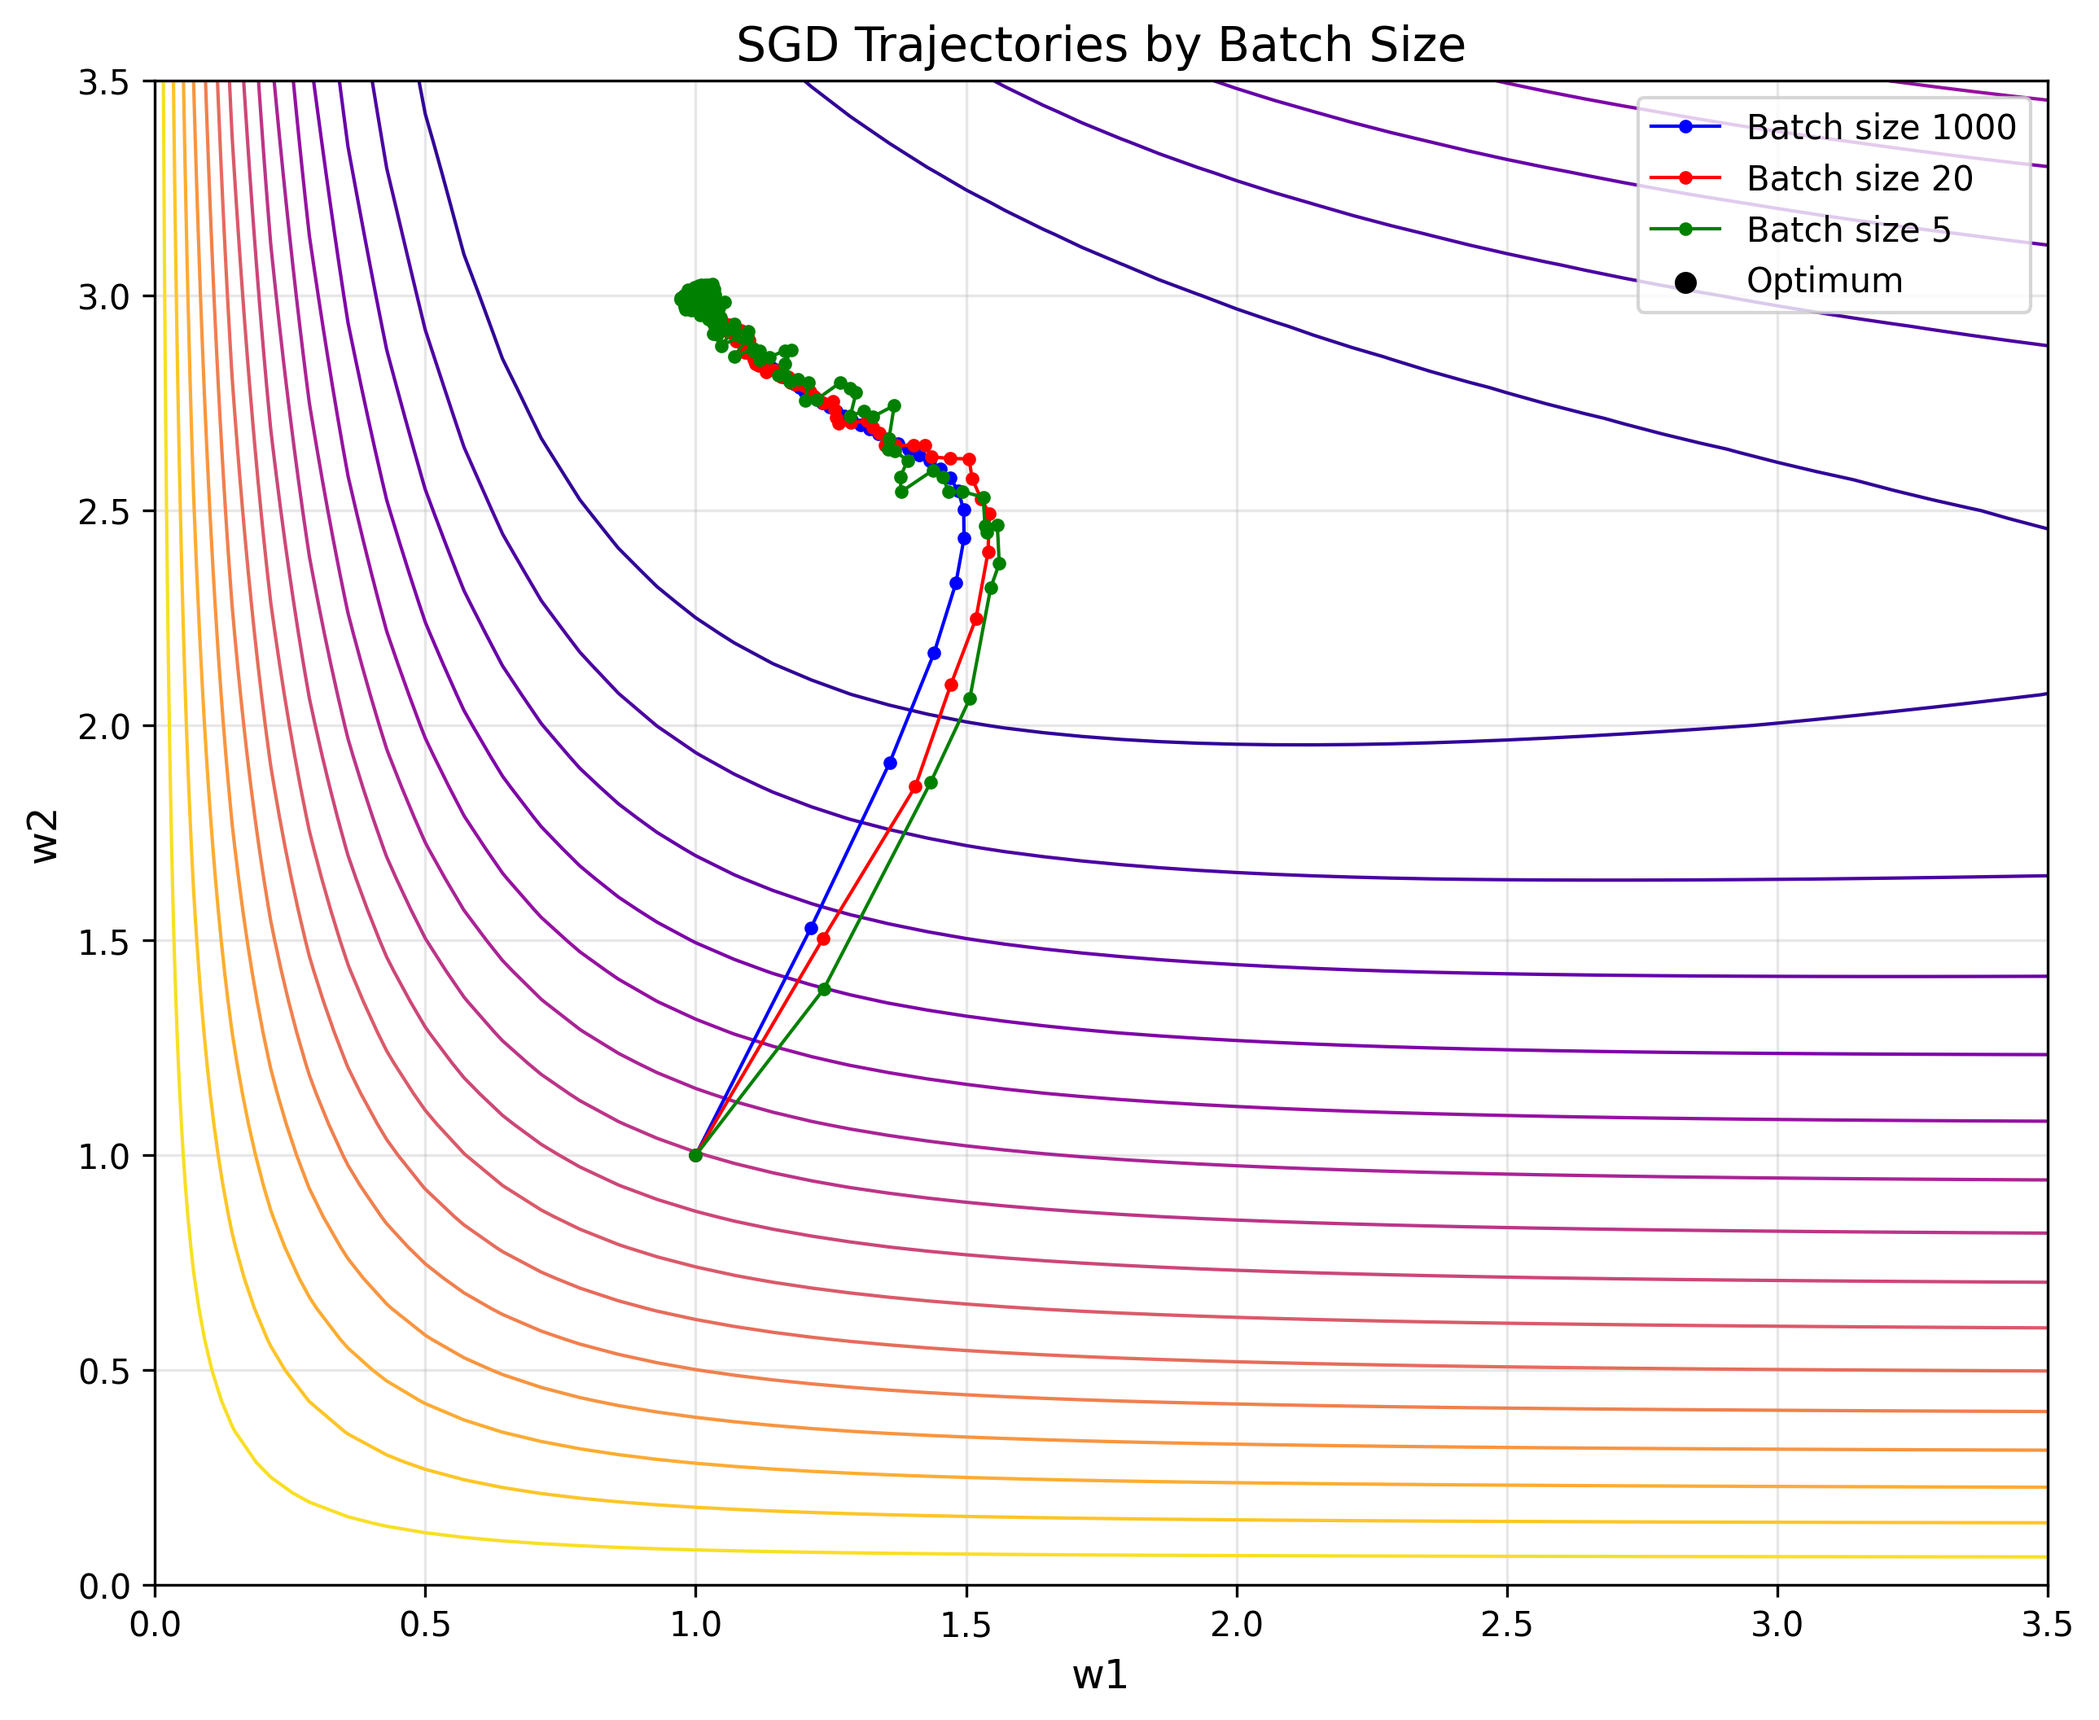
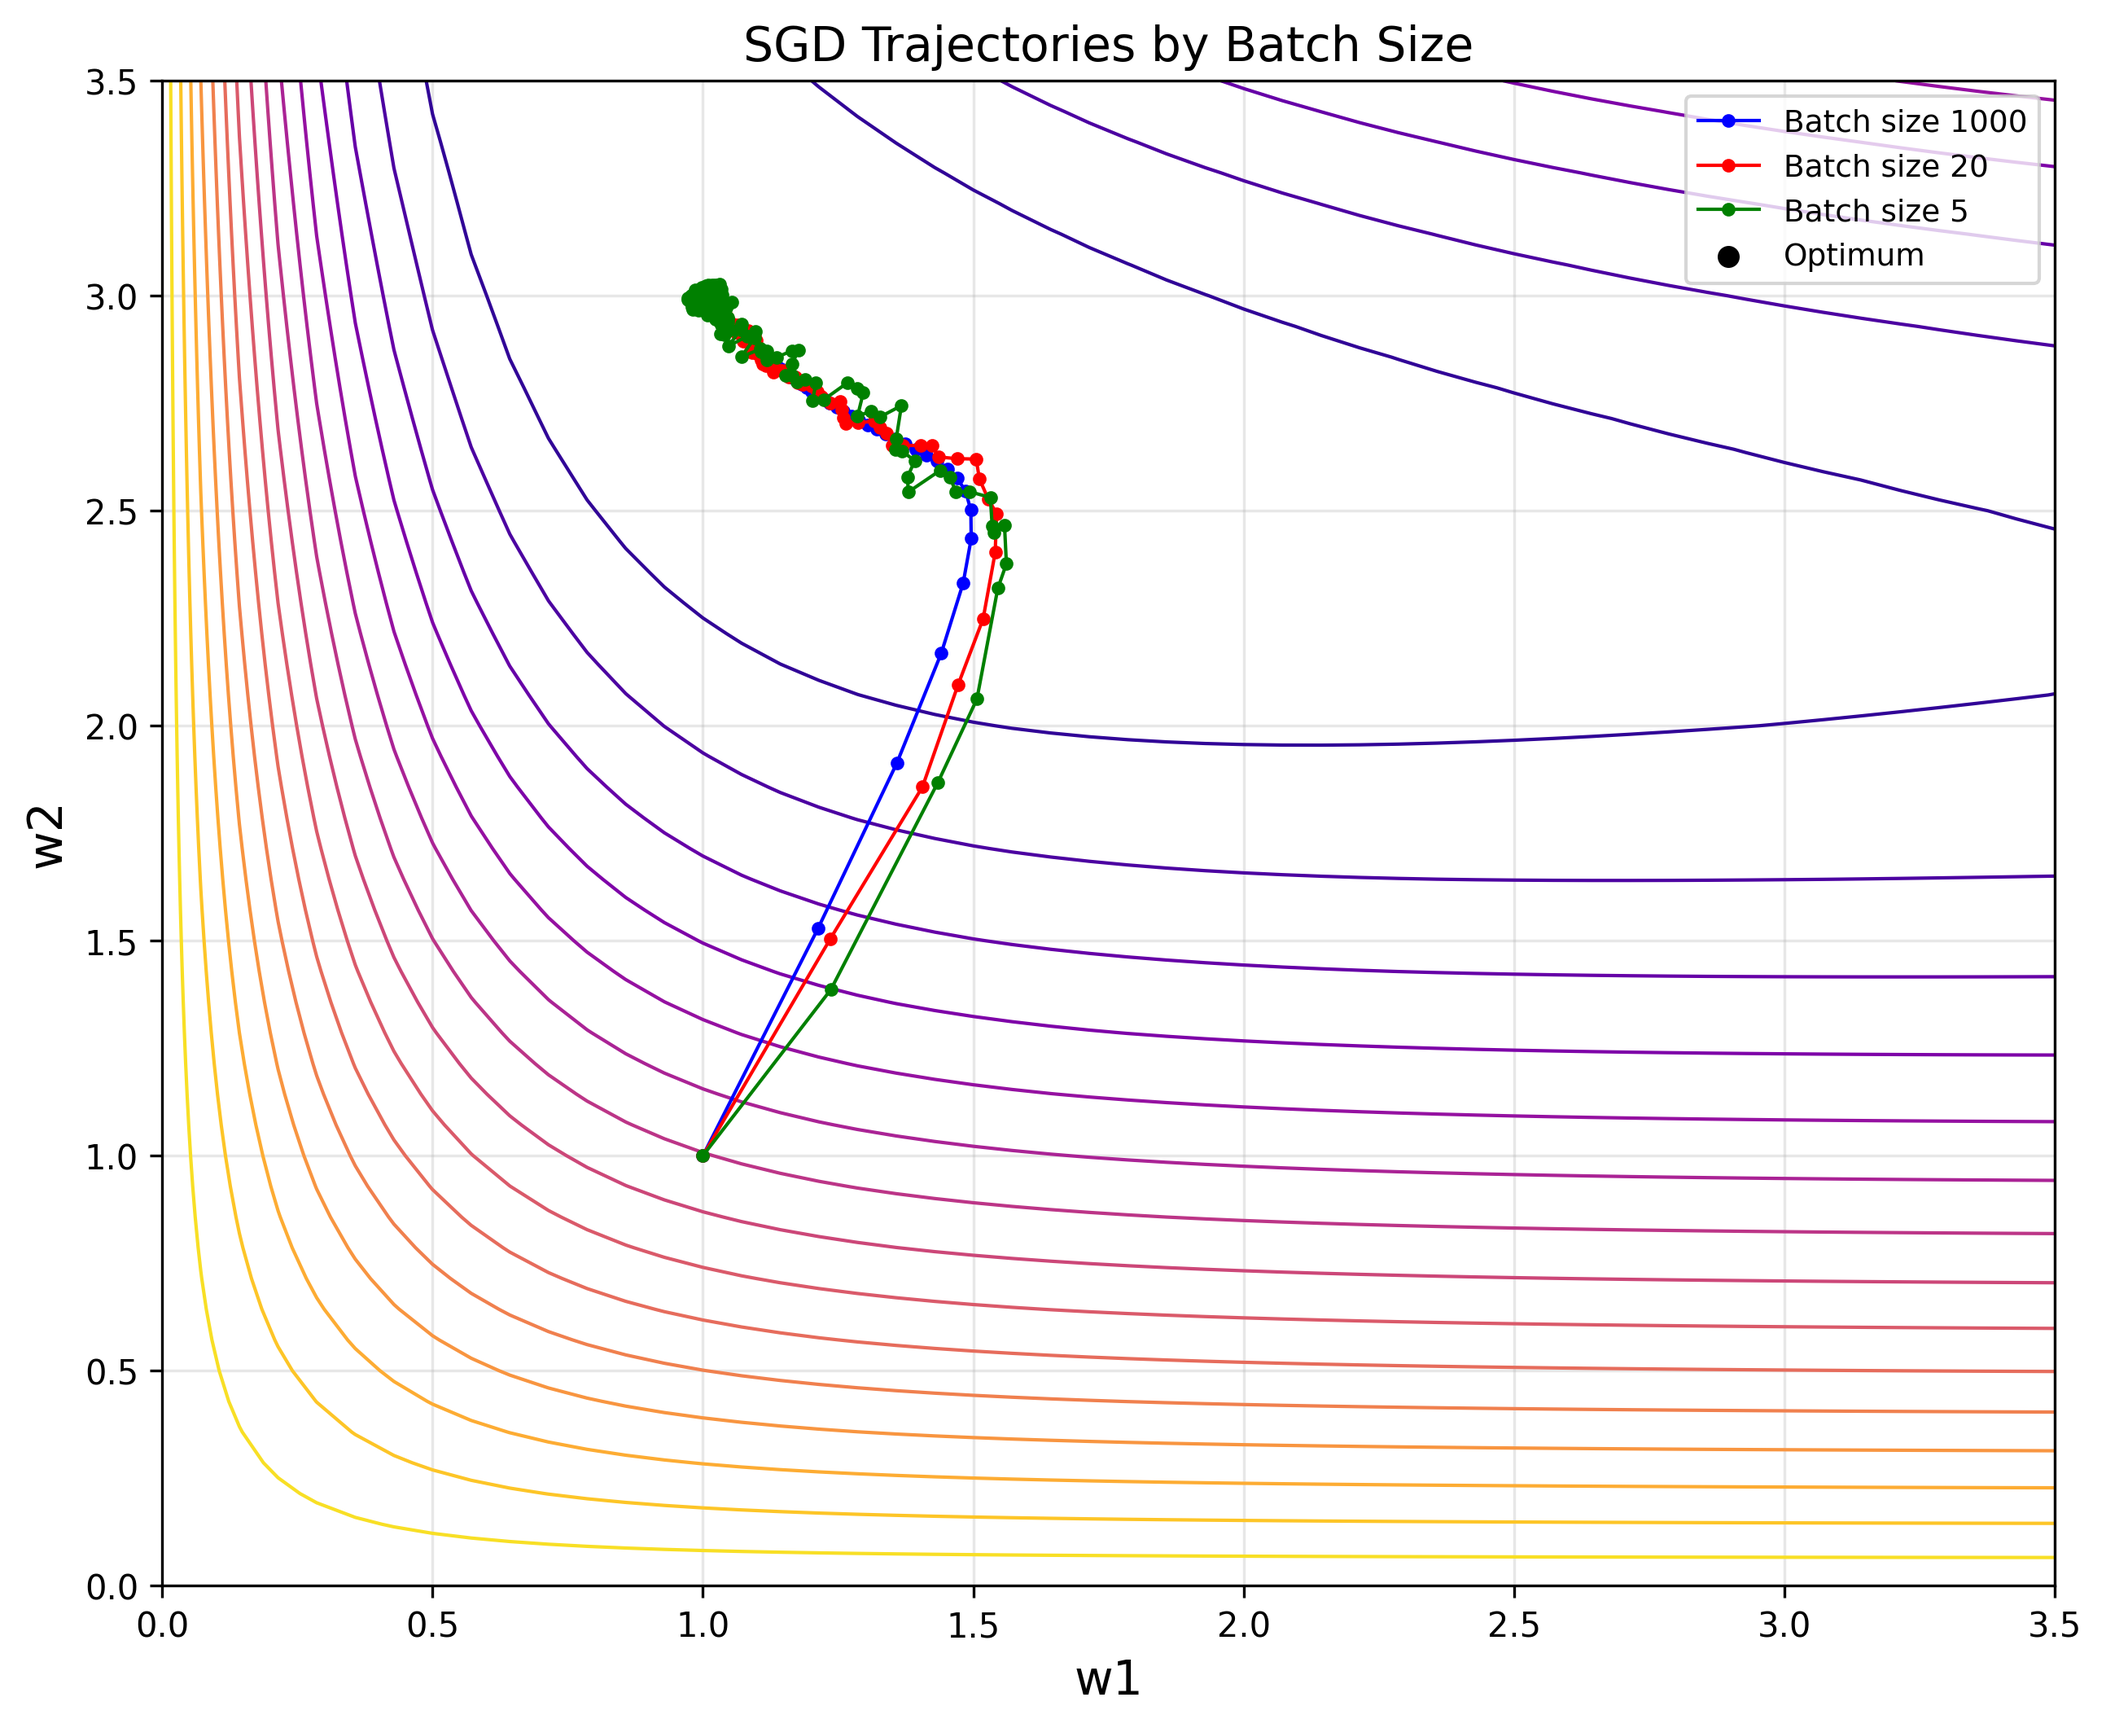
chore: clean up plotting code

diff --git a/week6/week6.py b/week6/week6.py
@@ -13,7 +13,8 @@ plt.rcParams.update(
         'axes.grid': True,
         'grid.alpha': 0.3,
         'axes.titlesize': 14,
-        'axes.labelsize': 12,
+        'axes.labelsize': 14,
+        'legend.fontsize': 9,
         'legend.frameon': True,
         'lines.linewidth': 1,
         'lines.markersize': 3,
@@ -571,12 +572,12 @@ def question_3a():
         zorder=5,
         label=f'Min: f={losses[min_idx]:.4f} at iter {min_idx}',
     )
-    plt.title('Rosenbrock GD: f(x) vs Iterations', fontsize=14)
-    plt.xlabel('Iteration', fontsize=14)
-    plt.ylabel('f(x) (log)', fontsize=14)
+    plt.title('Rosenbrock GD: f(x) vs Iterations')
+    plt.xlabel('Iteration')
+    plt.ylabel('f(x) (log)')
     plt.yscale('log')
-    plt.legend(fontsize=9)
-    plt.savefig('./images/question3a.png', dpi=300, bbox_inches='tight')
+    plt.legend()
+    plt.savefig('./images/question3a.png')
     plt.show()
 
 
@@ -600,12 +601,12 @@ def question_3b():
         zorder=5,
         label=f'Min: f={losses[min_idx]:.4f} at iter {min_idx}',
     )
-    plt.title('Rosenbrock Newton Updates: f(x) vs Iterations', fontsize=14)
-    plt.xlabel('Iteration', fontsize=14)
-    plt.ylabel('f(x) (log)', fontsize=14)
+    plt.title('Rosenbrock Newton Updates: f(x) vs Iterations')
+    plt.xlabel('Iteration')
+    plt.ylabel('f(x) (log)')
     plt.yscale('log')
-    plt.legend(fontsize=9)
-    plt.savefig('./images/question3b.png', dpi=300, bbox_inches='tight')
+    plt.legend()
+    plt.savefig('./images/question3b.png')
     plt.show()
 
 
@@ -639,12 +640,12 @@ def question_3c():
     plt.plot(gd_losses, label='GD', color='red')
     plt.plot(newton_losses, label='Newton', color='green')
     plt.plot(damped_losses, label='Damped Newton', color='blue')
-    plt.title('Rosenbrock: f(x) vs Iterations', fontsize=14)
-    plt.xlabel('Iteration', fontsize=14)
-    plt.ylabel('f(x) (log)', fontsize=14)
+    plt.title('Rosenbrock: f(x) vs Iterations')
+    plt.xlabel('Iteration')
+    plt.ylabel('f(x) (log)')
     plt.yscale('log')
-    plt.legend(fontsize=9)
-    plt.savefig('./images/question3c_loss.png', dpi=300, bbox_inches='tight')
+    plt.legend()
+    plt.savefig('./images/question3c_loss.png')
     plt.show()
 
     X1, X2 = np.meshgrid(np.linspace(-3, 2, 100), np.linspace(-2, 2.5, 100))
@@ -655,36 +656,30 @@ def question_3c():
     plt.plot(
         gd_steps[:, 0],
         gd_steps[:, 1],
-        linewidth=1.5,
         label='GD',
         color='red',
         marker='o',
-        markersize=3,
     )
     plt.plot(
         newton_steps[:, 0],
         newton_steps[:, 1],
-        linewidth=1.5,
         label='Newton',
         color='green',
         marker='o',
-        markersize=3,
     )
     plt.plot(
         damped_steps[:, 0],
         damped_steps[:, 1],
-        linewidth=1.5,
         label='Damped Newton',
         color='blue',
         marker='o',
-        markersize=3,
     )
-    plt.scatter(*x0, c='white', s=40, zorder=5, label='Start')
-    plt.title('Rosenbrock: Trajectories', fontsize=14)
-    plt.xlabel('x1', fontsize=14)
-    plt.ylabel('x2', fontsize=14)
-    plt.legend(fontsize=9)
-    plt.savefig('./images/question3c_trajectories.png', dpi=300, bbox_inches='tight')
+
+    plt.title('Rosenbrock: Trajectories')
+    plt.xlabel('x1')
+    plt.ylabel('x2')
+    plt.legend()
+    plt.savefig('./images/question3c_trajectories.png')
     plt.show()
 
 
@@ -692,16 +687,16 @@ if __name__ == '__main__':
     if not os.path.exists('./images'):
         os.makedirs('./images')
 
-    sp.init_printing(use_unicode=True, use_latex=False)
+    sp.init_printing(use_unicode=True, use_latex=False, pretty_print=True)
 
-    # question_1a()
-    # question_1b()
-    # question_1c()
-    #
-    # question_2a()
-    # question_2b()
-    # question_2c()
-    #
+    question_1a()
+    question_1b()
+    question_1c()
+
+    question_2a()
+    question_2b()
+    question_2c()
+
     question_3a()
     question_3b()
     question_3c()
